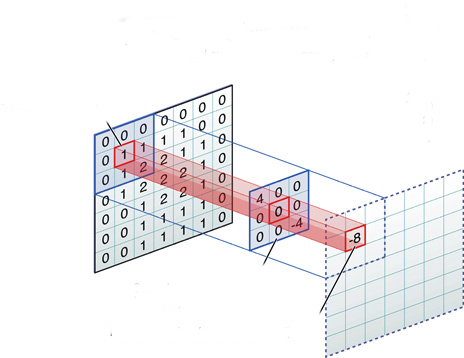
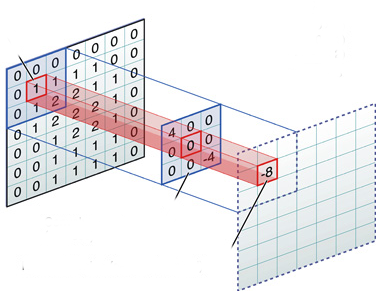
ml revisions

Changed region(s): [[0.0, 0.0619, 1.0, 1.0], [0.9069, 0.3711, 0.9654, 0.4021]]

diff --git a/Theorieteil/ML/ML.tex b/Theorieteil/ML/ML.tex
@@ -18,11 +18,11 @@ Support Vector Machines oder kurz SVMs sind ein Modell im Machine Learning.
 Dabei werden für alle Datensätze zuerst gewisse Features festgelegt. Diese Features entsprechen den Attributen des Datensatzes. Je nach Problem kann es unterschiedlich viele Features geben, doch allgemein kann man sagen, dass mit der Anzahl der Features auch die Genauigkeit des Programms wächst.
 
 Diese Features werden normalerweise in einem Vektor $x_i\in \mathbb{R}^m$ für den entsprechenden Datensatz $i = 1, \dots, n$ gespeichert.
-Zusätzlich hat jeder Datensatz noch einen weiteren Wert $y_{i} \in \mathbb{R}$, welcher das \enquote{Ergebnis} oder \enquote{Label} des Datensatzes beschreibt.
+Zusätzlich hat jeder Datensatz noch einen weiteren Wert $y_{i} \in \mathbb{R}$, welcher das \enquote{Ergebnis} oder \enquote{Label} des Datensatzes beschreibt. Meist betrachtet man zwei Klassen $y_i \in \{-1, +1\}$.
 
-Die Features und das Label zusammen beschreiben einen Punkt im $(m+1)$-dimensionalen Koordinatensystem, da zu den $m$ Dimensionen von $x$ noch die eine Dimension von $y$ dazukommt.
+% Die Features und das Label zusammen beschreiben einen Punkt im $(m+1)$-dimensionalen Koordinatensystem, da zu den $m$ Dimensionen von $x$ noch die eine Dimension von $y$ dazukommt.
 
-Durch die Features ist es dann möglich den Datensätzen einen bestimmten Ort im n-dimensionalen Koordinatensystem zuzuordnen. Diese können dann auf Grund ihrer räumlichen Anordnung klassifiziert werden. Dabei soll der Abstand von beiden Gruppen von Punkten zu dem Trennobjekt maximal sein. Dadurch kann die Klassifizierung optimal durchgeführt werden. Andernfalls würden schon geringe Abweichungen von den Test-Datensätzen reichen, das ein Datensatz falsch klassifiziert würde (Siehe Abb. \ref{SVM1}). 
+Durch die Features ist es dann möglich den Datensätzen einen bestimmten Vektor im $m$-dimensionalen Koordinatensystem zuzuordnen. Diese können dann auf Grund ihrer räumlichen Anordnung klassifiziert werden. Dabei soll der Abstand von beiden Gruppen von Punkten zu dem Trennobjekt maximal sein. Dadurch kann die Klassifizierung optimal durchgeführt werden. Andernfalls würden schon geringe Abweichungen von den Test-Datensätzen reichen, das ein Datensatz falsch klassifiziert würde (siehe Abb. \ref{SVM1}). 
 
 
 \begin{dsafigure}
@@ -34,37 +34,28 @@ Durch die Features ist es dann möglich den Datensätzen einen bestimmten Ort im
 \end{dsafigure}
 
 
-Um die Trennlinie zu optimieren, gibt es auch eine mathematische Beschreibung. Ebenen kann man auch in der Form $\langle x, w \rangle = b $ beschreiben. Daraus folgt, dass das Optimierungsproblem wie folgt geschreiben werden kann.
-
+Für die mathematische Formulierung des zugehörigen Optimierungsproblems stellen wir zunächst fest dass $2/\norm{w}$ der Abstand der Ebenen $\langle w, x_i\rangle - b = 1$ und $\langle w, x_i\rangle - b = -1$ ist (siehe Abb. \ref{SVM2}). Man nennt diesen Abstand auch den \emph{margin} der Klassifikationsebene $\langle w, x\rangle - b = 0$, $1/\norm{w}$ ist der maximal Abstand der Testdatenpunkte von der Ebene. Das folgende Programm berechnet somit eine Klassifikationsebene mit bester Trennung:
 \begin{align*}
-	\underset{w,b}{\operatorname{max}} \quad & \frac{2}{\norm{w}} \\
-	\operatorname{sodass} \quad &y_{i}(\langle w,x_{i} \rangle -b) \geq 1 \quad \forall  i = 1,...,n ; \\
-	&x \in \mathbb{R}^n; \quad	y \in \{1;-1\}
+	\underset{w,b}{\operatorname{maximiere}} \quad & \frac{2}{\norm{w}} \\
+	\operatorname{sodass} \quad &y_{i}(\langle w,x_{i} \rangle -b) \geq 1 \quad \forall  i = 1,\dots ,n
 	 %\label{SVMProblemMax}
 \end{align*}
-
-Dabei wird der Abstand zwischen den innersten Ebenen durch die beiden Datensätze ($\frac{2}{\norm{w}}$) (Siehe Abb. \ref{SVM2}).
-
-Unter der Vorraussetzung, dass alle vorhandenen Datensätze richtig klassifiziert sind. Dieses Problem kann 
-man aber genauso schreiben als:
-
+Dieses Problem is äquivalent zu
 \begin{align*}
 		\underset{w,b}{\operatorname{minimiere}} \quad & \norm{w} \\
-		\operatorname{sodass} \quad &y_{i}(\langle w,x_{i} \rangle -b) \geq 1 \quad \forall i = 1,...,n ; \\
-		&x \in \mathbb{R}^n; \quad y \in \{1; -1\}
-		%\label{SVMProblemMin}
+		\operatorname{sodass} \quad &y_{i}(\langle w,x_{i} \rangle -b) \geq 1 \quad \forall i = 1,\dots,n
 \end{align*}
-
-Klassifikation:
-
+Die Klassifikation neuer Datenpunkte erfolgt dann nach der Regel
 \begin{align*}
-	y_{i} =& \{ 1 \quad \operatorname{falls} \langle w,x_{i} \rangle - b \geq 0\} \\
-		& \{ -1 \operatorname{falls} \langle w,x_{i} \rangle - b \leq 0\}
+	y_{i} =& 
+        \begin{cases}
+1 &\text{falls} \quad \langle w,x_{i} \rangle - b \geq 0 \\
+-1 &\text{falls} \quad \langle w,x_{i} \rangle - b \leq 0
+\end{cases}
 	%\label{KlassifikationSVM}
 \end{align*}
-
-Nachdem das Problem optimiert wurde, ist der Computer in der Lage, weitere Daten einzuordnen, vorrausgesetzt, es ist richtig optimiert.
-Dennoch kann es bei dieser Art von SVMs zu einigen Problemen kommen.\\
+Nachdem das Problem optimiert wurde, ist der Computer in der Lage, weitere Daten einzuordnen.
+Dennoch kann es bei dieser Art von SVMs zu einem Problemen kommen: Wenn die Datensätze nicht linear separierbar sind, das heißt es ist nicht möglich, die beiden Datensätze mit einem linearen Element zu trennen. Dann ist obiges Optimierungsproblem nicht lösbar.
 
 \begin{dsafigure}
 	\begin{center}
@@ -74,25 +65,16 @@ Dennoch kann es bei dieser Art von SVMs zu einigen Problemen kommen.\\
 	\end{center}
 \end{dsafigure}
 
-\begin{itemize}
-	\item Wenn die Datensätze nicht linear separierbar sind, d.h., es ist nicht möglich die beiden Datensätze mit einem linearen Element zu trennen.
-	
-	\item Wenn die Daten nicht alle korrekt klassifiziert sind oder es Daten gibt, die in dem >>Bereich<< der anderen Seite liegen.
-\end{itemize}
-
-\paragraph{Soft Margin SVMs}
-Die Soft Margin SVMs können mit beiden Problemen umgehen.
-Sie sind im Prinzip wie herkömmliche SVMs aufgebaut, nur dass sie eine gewisse Fehlertoleranz besitzen. Diese kommt durch eine Veränderung an der Formel zustande:
-
+\paragraph{Soft Margin SVM.}
+Die Soft Margin SVMs können mit diesem Problem umgehen.
+Sie sind im Prinzip wie herkömmliche SVMs aufgebaut, nur dass sie eine gewisse Fehlertoleranz besitzen. Diese kommt durch die folgende Modifikation des Optimierungsproblems zustande:
 \begin{align*}
-	\underset{w,b}{\operatorname{minimiere}} \quad & \norm{w} + C\sum_{i}{z_{i}} \quad \forall i = 1,...,n \\
-	\operatorname{sodass} \quad & y_{i}(\langle w,x_{i} \rangle - b) \geq 1 - z_{i} \quad \forall i = 1,...,n; \\ 
-	&x \in \mathbb{R}^n; \quad y \in \{1; -1\} \quad z_{i} \geq 0 \\
+	\underset{w,b}{\operatorname{minimiere}} \quad & \norm{w} + C\sum_{i}{z_{i}} \\
+	\operatorname{sodass} \quad & y_{i}(\langle w,x_{i} \rangle - b) \geq 1 - z_{i} \quad \forall i = 1,...,n
 	%\label{eq: SoftMarginSVMs}
 \end{align*}
-
-Dabei steht $z_{i}$ für die Grösse des Fehlers des Punktes $x_{i}$ und C ist eine Konstante, deren grösse bestimmt, wie stark die Fehler gewichtet werden, da die Konstante mit der Summe der Fehler multipliziert wird. Da die gesamte Gleichung aber minimiert werden soll sorgt ein hohes C dafür, dass das Problem schwerer optimiert werden kann. Die Konstante muss vom Mensch selbst gewählt werden, je nachdem, wie schwer Fehler gewichtet werden sollen.
-Um die optimale Größe von C für das entsprechende Problem zu finden wird ein System namens Crossvalidation genutzt. Bei diesem System wird der Algorithmus mehrmals auf den gleichen Testdatensatz angewendet, C dabei aber variiert. Damit kann man herausfinden, bei welchem Wert von C der Algorithmus optimal funktioniert.
+Dabei steht $z_{i}$ für die Grö\ss e des Fehlers des Punktes $x_{i}$ und $C$ ist eine Konstante, deren Grö\ss e bestimmt, wie stark die Fehler gewichtet werden. Da die gesamte Gleichung minimiert werden soll sorgt ein hohes $C$ dafür, dass das Problem schwerer optimiert werden kann. Die Konstante muss vom Mensch gewählt werden, je nachdem, wie schwer Fehler gewichtet werden sollen.
+Um die optimale Größe von $C$ für das entsprechende Problem zu finden wird ein Verfahren namens \emph{crossvalidation} genutzt. Dabei wird der Algorithmus mehrmals auf den gleichen Testdatensatz angewendet, $C$ dabei aber variiert. Damit kann man herausfinden, bei welchem Wert von $C$ der Algorithmus optimal funktioniert.
 
 
 \section{Neuronale Netze}
@@ -100,9 +82,9 @@ Um die optimale Größe von C für das entsprechende Problem zu finden wird ein 
 
 \subsection{Einführung}
 
-Inspiriert von unserem Verständnis, wie das menschliche Gehirn lernt, benutzen Neuronale Netze Lernalgorithmen, welche besonders für praktische Anwendungen geeignet sind.
+Inspiriert von unserem Verständnis über das menschliche Gehirn benutzen neuronale Netze Lernalgorithmen, welche besonders für praktische Anwendungen geeignet sind.
 Dazu zählen Spracherkennung, Objekterkennung in Bildern und die Fähigkeit individuell passende Produkte vorzuschlagen, die dem Kunden gefallen könnten. 
-Ein Neuronales Netz wird von mehreren Schichten aufgebaut. Ausgangsschicht ist dabei, die Datenschicht, auf die ein oder mehrere hidden layer folgen. Als Ausgabewert erhält man schließlich einen Vektor, welcher die Wahrscheinlichkeitsverteilung darstellt. Mit anderen Worten, wie wahrscheinlich es ist, dass das Ausgangsobjekt zu einer bestimmten Klasse gehört.
+Ein neuronales Netz ist aus mehreren Schichten aufgebaut. Ausgangsschicht ist dabei, die Datenschicht, auf die ein oder mehrere sogenannte \emph{hidden layer} folgen. Als Ausgabewert erhält man schließlich einen Vektor, welcher eine Wahrscheinlichkeitsverteilung darstellt, die angibt wie wahrscheinlich es ist, dass das Ausgangsobjekt zu einer bestimmten Klasse gehört.
 
 \begin{dsafigure}
 	\begin{center}
@@ -115,40 +97,38 @@ Ein Neuronales Netz wird von mehreren Schichten aufgebaut. Ausgangsschicht ist d
 
 \subsection{Deep Learning}
 
-Mit Deep Learning beschreibt man die Neuronalen Netze, die über mehr als einen >>versteckte Schicht<< verfügen. Damit ist gemeint, dass sich zwischen Ein- und Ausgabeschicht weitere Schichten befinden. 
+Mit Deep Learning beschreibt man neuronale Netze, die über mehr als eine \enquote{versteckte Schicht} verfügen. Damit ist gemeint, dass sich zwischen Ein- und Ausgabeschicht weitere Schichten befinden. 
 
-Um die Anzahl an Parametern zu vergrößern, werden diese auch über nicht-lineare Funktionen miteinander verknüpft. Dadurch kann eine höhere Genauigkeit erzielt werden. Jedoch kann eine zu hohe Anzahl an Parametern auch dazu führen, dass das Netzwerk >>overfitted<<, d.h., zu sehr an den Trainingsdatensatz angepasst, wird. Dann kann das Netzwerk neue, fremde Daten nicht mehr korrekt klassifizieren. 
+Um die Anzahl an Parametern zu vergrößern, werden diese auch über nicht-lineare Funktionen miteinander verknüpft (die Verkettung von linearen Funktion wäre wieder linear und besäße deshalb nur begrenzte Representationskraft). Jedoch kann eine zu hohe Anzahl an Parametern auch dazu führen, dass das Netzwerk \enquote{overfitted}, das heißt zu sehr an den Trainingsdatensatz angepasst wird. Dann kann das Netzwerk neue Daten nicht mehr korrekt klassifizieren.
 
-Wie wir in der Abbildung \ref{FigNN} sehen können ist ein typisches Fully connected Neuronales Netz abgebildet. Als Basis findet man unten die Datenschicht mit ihren Eingabewerten in Form eines Vektors $(x_1 \dots x_i)$. Diese Werte werden nun mit einem jeweiligen Faktor $w$ multipliziert. Hierbei handelt es sich um ein Skalarprodukt. Das Ergebnis wird nun im ersten hidden layer abgespeichert. Darauf wird eine nicht lineare Funktion angewendet und das Ganze wird erneut mit einem Faktor $w$ multipliziert. Dieser Vorgang wiederholt sich so lange bis uns schließlich ein Vektor mit seinen Komponenten $(p_1 \dots p_k)$ zurückgegeben wird, welcher als Wahrscheinlichkeitsverteilung interpretiert werden kann. Anhand eines konkreten Beispiels würde es folgendes bedeuten:
-Nehmen wir an wir haben ein Bild und wollen ermitteln zu welcher Klasse Haus, Tisch oder Stuhl das daurauf abgebildete Objekt gehört. Unsere inputs wären demnach die Pixel des Bildes. Diese durchlaufen nun das Neuronale Netz und wir erhalten eine Wahrscheinlichkeitsverteilung als Rückgabewert, welche uns mitteilt, dass es am wahrscheinlichsten ist, dass das abgebildete Objekt ein Objekt der Klasse Stuhl ist. Demnach ist die Klassifizierung vollzogen.
-
+Wie wir in der Abbildung \ref{FigNN} sehen können ist ein typisches \emph{fully connected} neuronales Netz abgebildet. Als Basis findet man unten die Datenschicht mit ihren Eingabewerten in Form eines Vektors $(x_1 \dots x_i)$. Diese Werte werden nun mit einem jeweiligen Faktor $w$ multipliziert. Hierbei handelt es sich um ein Skalarprodukt. Das Ergebnis wird nun im ersten hidden layer abgespeichert. Darauf wird eine nicht-lineare Funktion angewendet. Für die $k$-te hidden layer bekommen wir
 \begin{align*}
-a_j^{(k)} = f^{(k)} (\langle w_{j}^{(k)}, a_i^{(k-1)}\rangle) = f^{(k)} (\sum_{i=1}^{m^{(k-1)}} w_{ji}^{(k)},a_i^{(k-1)} )
+a_j^{(k)} &= f^{(k)} (\langle w_{j}^{(k)}, a^{(k-1)}\rangle)\\ &= f^{(k)} \left(\sum_{i=1}^{m^{(k-1)}} w_{ji}^{(k)},a_i^{(k-1)}\right)
 \end{align*}
+Das Ergebnis wird erneut mit einem Faktor $w$ multipliziert. Dieser Vorgang wiederholt sich so lange bis uns schließlich ein Vektor mit seinen Komponenten $(p_1 \dots p_k)$ zurückgegeben wird, welcher als Wahrscheinlichkeitsverteilung interpretiert werden kann.
+
+Anhand eines konkreten Beispiels würde es folgendes bedeuten:
+Nehmen wir an wir haben ein Bild und wollen ermitteln zu welcher Klasse Haus, Tisch oder Stuhl das daurauf abgebildete Objekt gehört. Unsere inputs wären demnach die Pixel des Bildes. Diese durchlaufen nun das Neuronale Netz und wir erhalten eine Wahrscheinlichkeitsverteilung als Rückgabewert, welche uns mitteilt, dass es am wahrscheinlichsten ist, dass das abgebildete Objekt ein Objekt der Klasse Stuhl ist. Demnach ist die Klassifizierung vollzogen.
 
 \subsection{Convolutional Neural Networks}
 
 \begin{dsafigure}
-	\begin{center}
+  \centering
 		\includegraphics[width=0.5 \textwidth]{\media cnn.png}
-		\caption{Ein Convolutional Neural Network (CNN) (dt.: >>faltendes neurales Netzwerk<<) %mit vier Eingängen ($x_1, ..., x_4$) und zwei Ausgängen ($p_1, p_2$). Dazwischen befindet sich eine Schicht aus drei >>Neuronen<<, die als Filter wirkt.}
+		\caption{Ein Convolutional Neural Network (CNN) (deutsch \enquote{faltendes neurales Netzwerk}) %mit vier Eingängen ($x_1, ..., x_4$) und zwei Ausgängen ($p_1, p_2$). Dazwischen befindet sich eine Schicht aus drei >>Neuronen<<, die als Filter wirkt.}
 		}
 		\label{FigConvNN}
-	\end{center}
 \end{dsafigure}
-
-
-Bei den Convolutional Networks handelt es sich um ein Neuronales Netz mit einer vereinfachten Struktur. Diese kommt dadurch zu Stande, dass nun kein fully connected Neuronales Netzwerk mehr vorliegt. 
+\noindent Bei \emph{convolutional networks} handelt es sich um spezielle neuronale Netze, die besonders für die Bilderkennung geeignet sind.
 
 \begin{dsafigure}
-	\begin{center}
+  \centering
 		\includegraphics[width=0.4 \textwidth]{\media ConvolutionalNN.png}
-		\caption{Ein Convolutional NN mit einer Schicht aus neun >>Neuronen<< dazwischen, die als Filter wirkt. }
+		\caption{Ein Convolutional NN mit einer Schicht aus neun \enquote{Neuronen} dazwischen, die als Filter wirkt. }
 		\label{FigConvNN}
-	\end{center}
 \end{dsafigure}
 
-Der existierende Filter {w} wird auf die Eingabematrix angewendet. Dabei wird das Skalarprodukt berechnet und in der Endmatrix als Ergebnis festgehalten. Daraufhin wird der Filter immer um eine Stelle weiter nach rechts in der Eingabematrix verschoben und das neue Skalarprodukt berechnet bis das Ende der Eingabematrix erreicht wurde.
+Wie in Fig.~\ref{FigConvNN} gezeigt wird der existierende Filter $w$ über die Eingabematrix geschoben. Dabei wird das Skalarprodukt berechnet und in der Endmatrix als Ergebnis festgehalten. Daraufhin wird der Filter immer um eine Stelle weiter nach rechts in der Eingabematrix verschoben und das neue Skalarprodukt berechnet bis das Ende der Eingabematrix erreicht wurde.
 
 \subsection{SVMs als Neuronale Netze}
 
